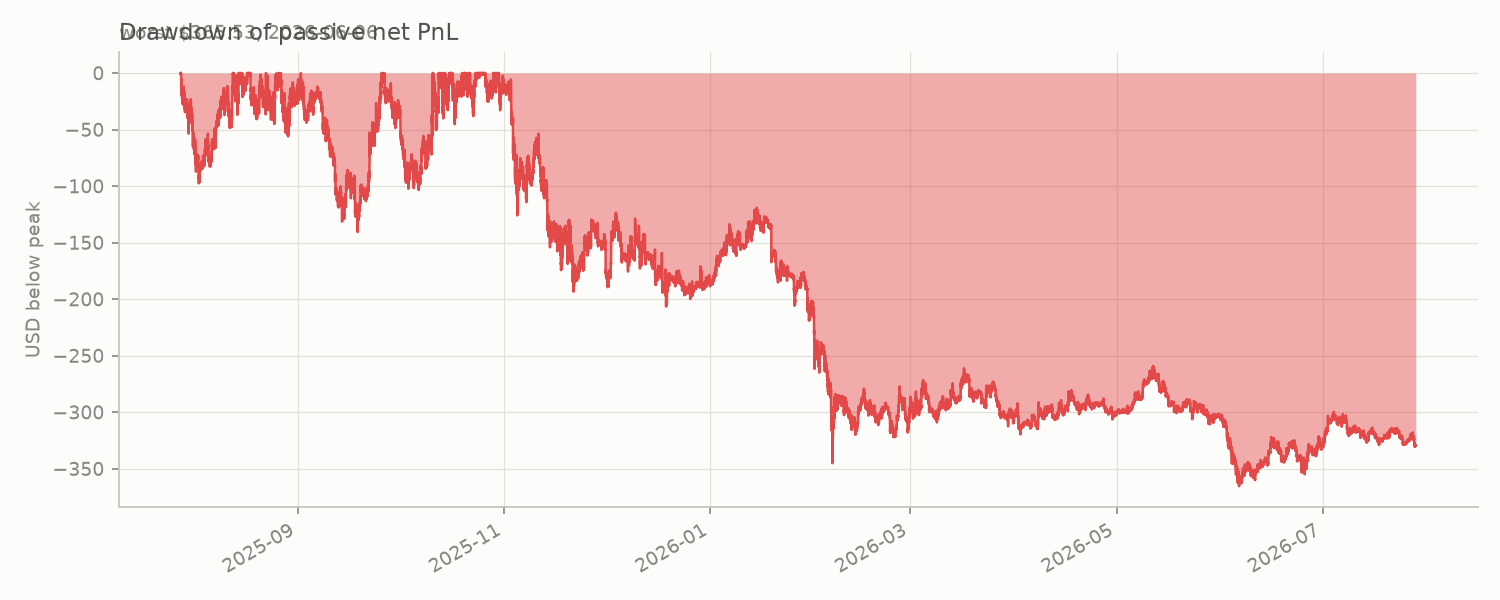
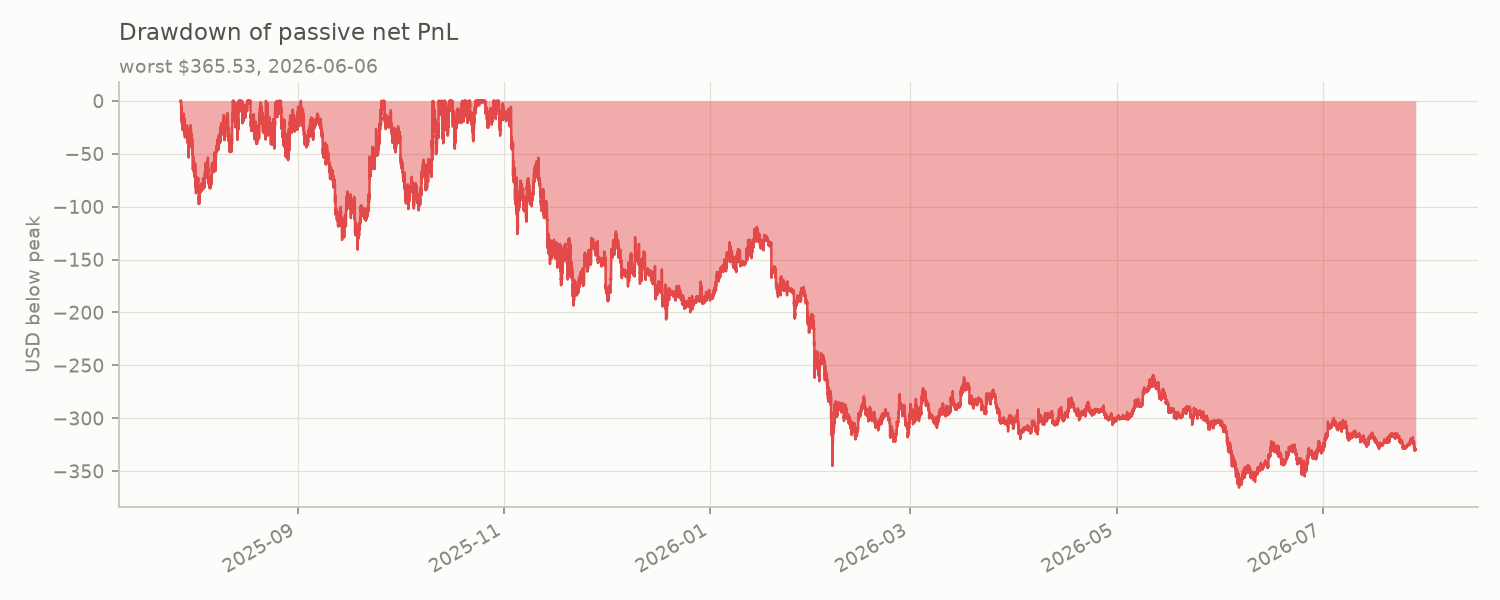
Report the year honestly: both strategies lost money
The README still quoted results from the placeholder BIN_TVL and embedded
charts nothing generates any more. At the pool's actual depth the headline
result changes sign, so the write-up is rebuilt around what the deposit
actually did rather than around the comparison against holding.

- Results rewritten at BIN_TVL = 13,500: passive $297.50 fees against
  $331.27 of IL, -$33.77 and a -3.4% net APY, so it loses to holding;
  rebalancing $831.95 fees, -$603.67 IL, $107.38 costs, +$120.90.
- A wealth table leads now. "Net PnL vs holding" is a comparison, not a
  return: rebalancing beat holding by $120.90 and still ended -16.5% on the
  money, and passive ended -32.1% against holding's -28.7%. Both lost.
- The break-even fee rate gets its own section: passive needed 0.0445% and
  the run assumed 0.0400%, which is the whole of its shortfall.
- Cost sensitivity now says the verdict fails at 0.5%, where the old
  numbers had it surviving.
- Embeds the current charts, and documents backtest/metrics/report/charts
  and the split between computing, formatting and drawing.
- Runtime measured rather than estimated: 54 s for a full run on the year,
  20 s of it the two runs and their metrics, 6 s the thirteen charts.
- BIN_TVL provenance written out in config.py and in the assumptions:
  $723k over the 50 bins of a +/-1% band is $14.46k each, and interpolating
  the density out to a 69-bin position gives $13.44k.
[…]

diff --git a/charts.py b/charts.py
@@ -43,6 +43,9 @@ COLOR = {
 
 LINE_W = 1.8
 
+# Points of space above the axes for a title that has a subtitle under it.
+TITLE_PAD = 20
+
 # A year of minute candles is 525,420 points drawn into about 1,500 pixels.
 # Rasterising all of them costs ~15 s per chart and shows nothing extra.
 CHART_MAX_POINTS = 12_000
@@ -84,16 +87,30 @@ def _axes(figsize=(10, 5)):
     return fig, ax
 
 
+def _esc(text):
+    """Escape the dollar signs in a label.
+
+    Matplotlib reads a $...$ pair as maths, so "$996.96 at the start,
+    $0.02 at the end" renders as "996.96atthestart, 0.02 at the end" in
+    italics. Everything drawn here quotes money, so everything is escaped.
+    """
+    return text.replace("$", r"\$")
+
+
 def _finish(fig, ax, title, ylabel, legend=True, subtitle=None):
-    ax.set_title(title, fontsize=11, color=INK["secondary"], loc="left")
+    # A subtitle sits in the gap between axes and title, so the title has
+    # to be padded out of the way or the two are drawn on top of each other.
+    ax.set_title(_esc(title), fontsize=11, color=INK["secondary"], loc="left",
+                 pad=TITLE_PAD if subtitle else 6)
     ax.set_ylabel(ylabel, color=INK["muted"], fontsize=9)
     if subtitle:
-        ax.text(0.0, 1.02, subtitle, transform=ax.transAxes, fontsize=9,
+        ax.text(0.0, 1.01, _esc(subtitle), transform=ax.transAxes, fontsize=9,
                 color=INK["muted"], ha="left", va="bottom")
     if legend:
         leg = ax.legend(loc="best", frameon=False, fontsize=9)
         for text in leg.get_texts():
             text.set_color(INK["secondary"])
+            text.set_text(_esc(text.get_text()))
     fig.autofmt_xdate()
     fig.tight_layout()
     return fig
@@ -259,10 +276,11 @@ def fee_per_bin(total_bin_fees, bin_step, top=None):
     ax.bar(prices, fees, width=width, color=COLOR["fees"], alpha=0.9, lw=0)
     ax.set_xlabel("bin price (USD)", color=INK["muted"], fontsize=9)
     ax.set_title("Fees earned by the pool at each price",
-                 fontsize=11, color=INK["secondary"], loc="left")
+                 fontsize=11, color=INK["secondary"], loc="left",
+                 pad=TITLE_PAD)
     ax.set_ylabel("fees (USD)", color=INK["muted"], fontsize=9)
-    ax.text(0.0, 1.02, f"{len(bins):,} bins touched, "
-                       f"${fees.sum():,.0f} total",
+    ax.text(0.0, 1.01, _esc(f"{len(bins):,} bins touched, "
+                            f"${fees.sum():,.0f} total"),
             transform=ax.transAxes, fontsize=9, color=INK["muted"],
             ha="left", va="bottom")
     fig.tight_layout()

diff --git a/config.py b/config.py
@@ -8,8 +8,9 @@ BIN_STEP = 4  # basis points; a common step for SOL pools (each bin 0.04% apart)
 POOL_SHARE = 0.08  # this pool captures 8% of total market volume
 FEE_RATE = 0.0004  # 0.04% trading fee
 # Fixed TVL per bin in USD, from the tracked pool rather than a guess: it held
-# about $723k inside a +/-1% band, which at bin step 4 is 50 bins, and the
-# liquidity thins going outward across a 69-bin position.
+# about $723k inside a +/-1% band, which at bin step 4 is 50 bins, so $14.46k
+# per bin there. A 69-bin position reaches past that band into thinner
+# liquidity, and interpolating the density out to 69 bins gives $13.44k.
 BIN_TVL = 13_500
 USER_DEPOSIT = 1_000  # total user deposit in USD 
 POSITION_BINS = 69  # width (in bins) of every position; Meteora's default range

diff --git a/README.md b/README.md
@@ -20,7 +20,8 @@ module loads is set by `DATA_FILE` in `config.py`.
 Both are committed, so a fresh clone (or a deployment) has data without a
 fetch step. Switch between them by editing `DATA_FILE`; the results below
 are from the year, and the 14-day set is small enough to iterate on
-quickly (a full run takes about a second on it, against 96 s on the year).
+quickly (a few seconds against 54 s on the year, of which the two runs
+and all their metrics are 20 s and the thirteen charts are 6 s).
 
 The year ships as Parquet rather than CSV because at this size the format
 carries its weight: 0.2 s to load versus ~15 s for the same rows as CSV, and
@@ -65,54 +66,81 @@ LPing earned *over just holding*.
 
 | strategy | fees | IL | costs | net PnL vs HODL | net APY | rebalances |
 |---|---|---|---|---|---|---|
-| passive (69 bins, $189.97–$195.29) | $401.63 | −$331.27 | — | **+$70.36** | 7.0% | 0 |
-| rebalancing (69 bins) | $1,123.13 | −$603.67 | $107.38 | **+$412.08** | 41.2% | 2,236 |
+| passive (69 bins, $189.97–$195.29) | $297.50 | −$331.27 | — | **−$33.77** | −3.4% | 0 |
+| rebalancing (69 bins) | $831.95 | −$603.67 | $107.38 | **+$120.90** | 12.1% | 2,236 |
 
-![Net PnL by strategy](outputs/strategies.png)
+![Net PnL by strategy](outputs/net_pnl_comparison.png)
 
 SOL fell 62.1% over this year ($192.73 → $73.14), which is the single
 fact driving every number below.
 
-**The passive position is barely a baseline.** Its range was fixed on the
-first candle at $189.97–$195.29. Price left it early and never came back,
-so it earned on **2.6% of candles** (13,451 of 525,420) and collected 3.4%
-of the pool's fees — essentially all of it in the first weeks. After that
-it is a 100%-SOL bag riding the price down. It is here to answer "did
-rebalancing help", and the answer is yes, decisively.
+### Both strategies lost money
+
+"Net PnL vs holding" is a comparison, not a return, and on a year this
+bad the two can point in opposite directions — a strategy can beat
+holding and still lose money. Here is what actually happened to the
+deposit:
+
+| | passive | rebalancing | just holding |
+|---|---|---|---|
+| deposit, marked at entry | $996.96 | $996.96 | $996.96 |
+| fees collected | $297.50 | $831.95 | — |
+| ending position value | $379.80 | $0.02 | $711.07 |
+| **total wealth at the end** | **$677.30** | **$831.97** | **$711.07** |
+| **absolute return** | **−32.1%** | **−16.5%** | **−28.7%** |
+| vs holding | −$33.77 | +$120.90 | — |
+
+Fees are withdrawn as earned rather than compounded back in, so ending
+wealth is fees plus whatever the position is still worth. Rebalancing
+beat holding by $120.90 and still lost $165 of the $997 put in. The
+passive position lost more than holding did.
+
+**The passive strategy lost to holding.** It collected $297.50 of fees
+against $331.27 of impermanent loss — the fees fell $33.77 short. Its
+gross fee APY of 29.8% looks healthy in isolation; the net APY is −3.4%,
+and the gap between those two numbers is exactly what IL ate.
+
+Its range was fixed on the first candle at $189.97–$195.29. Price left it
+early and never came back, so it earned on **2.6% of candles** (13,451 of
+525,420) and its range saw only 3.4% of the year's pool fees. It spent
+331 of 366 days entirely out of range: earning nothing, while still fully
+exposed to the price as a 100%-SOL bag riding it down. That is the worst
+of both legs, and it is the ordinary outcome for a set-and-forget range.
+
+![Price against the passive range](outputs/price_with_range_band_passive.png)
+
+**Rebalancing did better, and still lost money.** Following the price
+down over 2,236 rebalances kept it in range 100% of the time and earned
+$831.95 — 2.8× the passive position's fees on the same deposit. That was
+enough to beat holding and not enough to be profitable.
 
 ![Cumulative fees](outputs/cumulative_fees.png)
 
-**Rebalancing beat holding, in absolute terms.** Following the price down
-over 2,236 rebalances, it collected $1,123.13 of fees on a $996.96
-deposit. Fees are withdrawn as earned, not compounded back in, so the
-final wealth is fees plus whatever the position is still worth:
+### The break-even fee rate
 
-| | rebalancing | HODL |
-|---|---|---|
-| starting value | $996.96 | $996.96 |
-| fees collected | $1,123.13 | — |
-| ending position value | $0.02 | $711.07 |
-| **total** | **$1,123.15** (+12.7%) | **$711.07** (−28.7%) |
+The clearest single number the engine produces: the fee rate at which
+fees would have exactly covered IL and costs, given this price path.
 
-**Read the APY column carefully — it is measured against HODL, not
-against the deposit.** "+41.2%" means it beat holding by $412 over a year;
-the absolute return on the money was +12.7%. Those are very different
-claims, and only the second one is what a user gets.
+| | break-even rate | this run assumed | verdict |
+|---|---|---|---|
+| passive | **0.0445%** | 0.0400% | 10% below it — loses to holding |
+| rebalancing | **0.0342%** | 0.0400% | 17% above it — beats holding |
 
-This also explains the shape of the rebalancing line after early 2026: it
-keeps drifting up while the position earns nothing. With the position at
-roughly zero, net PnL is `fees − HODL`, so every further fall in SOL
-*raises* it. That late rise is the baseline sinking, not the strategy
-working.
+Both are computed against the same fee model, so the comparison is
+internal to it. It is verified by re-running: at the reported rate, net
+PnL comes out 0.0000 with IL and costs unchanged.
 
-**The position bleeds to nothing, and that caps the strategy.** Its value
-goes $996.96 → $0.02, and fee income decays with it — **94% of the
-$1,123.13 was earned in the first 90 days**:
+### The rebalancing position bleeds to nothing
+
+Its value goes $996.96 → $0.02, and fee income decays with it — **94% of
+the $831.95 was earned in the first 90 days**:
 
 | month end | 2025-07 | 2025-08 | 2025-09 | 2025-10 | 2025-11 | 2025-12 | 2026-01 | 2026-03 | 2026-07 |
 |---|---|---|---|---|---|---|---|---|---|
 | position value | $852.04 | $307.29 | $162.20 | $37.45 | $8.67 | $3.97 | $1.80 | $0.16 | $0.02 |
-| fees that month | $110.78 | $604.08 | $240.21 | $118.65 | $32.71 | $10.07 | $5.23 | $0.13 | $0.01 |
+| fees that month | $82.06 | $447.47 | $177.93 | $87.89 | $24.23 | $7.46 | $3.88 | $0.10 | $0.01 |
+
+![Rebalancing position value](outputs/position_value_rebalancing.png)
 
 This is not an accounting bug. On a closed price loop with `REBALANCE_COST`
 set to zero, the passive position returns to exactly its starting value
@@ -126,18 +154,29 @@ So the annualized figure is not repeatable: by month five the position is
 worth $8 and earns nothing. Realizing anything like it again means
 redepositing, which is a different (and untested) strategy.
 
-**Cost sensitivity.** The verdict survives the cost assumption, though
-the margin does not:
+It also explains the shape of the rebalancing line after early 2026: it
+keeps drifting up while the position earns nothing. With the position at
+roughly zero, net PnL is `fees − HODL`, so every further fall in SOL
+*raises* it. That late rise is the baseline sinking, not the strategy
+working.
+
+![What rebalancing earned and gave back](outputs/pnl_decomposition_rebalancing.png)
+
+**Cost sensitivity.** The verdict does not survive a higher trading cost:
 
 | `REBALANCE_COST` | 0% | 0.1% | 0.5% |
 |---|---|---|---|
-| net PnL vs HODL | +$556.43 | +$412.08 | +$53.67 |
+| net PnL vs HODL | +$227.83 | +$120.90 | **−$144.60** |
 
-![Fees, IL and net PnL](outputs/net_pnl.png)
+At 0.5% the 2,236 rebalances cost $375.03 and rebalancing loses to
+holding as well. The strategy's edge is a bet that recentring stays
+cheap.
 
 The engine thus measures the two legs any range-management or hedging
 approach is judged against: the fee income a position keeps, and the
-price-exposure cost (IL) that must be managed away.
+price-exposure cost (IL) that must be managed away. On this year, moving
+the range earned more fees than it cost — and neither strategy earned
+enough to make LPing through a 62% drawdown profitable.
 
 ## Repository layout
 
@@ -154,7 +193,11 @@ price-exposure cost (IL) that must be managed away.
 | `inventory.py` | Token inventory per bin (USDC below the price, SOL above), flips as price crosses bins, position value |
 | `pnl.py` | HODL baseline, impermanent loss, net PnL (fees + IL) |
 | `strategies.py` | Rebalancing strategy: close-outside-range trigger, recenter, cost on the value traded |
-| `run_backtest.py` | Runs both strategies end to end, prints the tables, writes charts to `outputs/` |
+| `backtest.py` | One run as data: `run()` returns `{params, series, events, metrics}` and prints nothing |
+| `metrics.py` | Every reported number, computed from a run's series (no formatting) |
+| `report.py` | Formats a run for a terminal, ending in a plain-language paragraph (no computing) |
+| `charts.py` | Every chart, each function taking a run and returning a figure (no file writing) |
+| `run_backtest.py` | Runs both strategies, prints the reports, writes the charts to `outputs/` |
 | `test_bin_math.py` | Tests for the bin math |
 | `data/sol_1m_1y.parquet` | The exact dataset the results above were produced from (committed for reproducibility) |
 
@@ -168,6 +211,12 @@ and `make_position` rejects anything wider than `MAX_BINS`. Every position
 in the engine — including the ones a rebalance opens — is built there, so
 there is no path around the ceiling.
 
+Computing, formatting and drawing are kept apart. `backtest.run()` returns
+a result dict and prints nothing; `params` and `metrics` inside it are flat
+and JSON-serialisable, and `series` and `events` are what the charts
+consume. Anything other than a terminal — a web front end, a results store,
+a parameter sweep — calls `run()` directly and skips `run_backtest.py`.
+
 ## How to run
 
 Requires Python 3.12+ with `pandas`, `matplotlib`, `requests`, and `pyarrow`
@@ -175,6 +224,8 @@ Requires Python 3.12+ with `pandas`, `matplotlib`, `requests`, and `pyarrow`
 
 ```
 python run_backtest.py     # the full backtest (uses config.DATA_FILE)
+python run_backtest.py passive   # just one strategy
+python report.py           # the same numbers, printed without writing charts
 python fetch_data.py       # optional: re-fetch a fresh 14-day window
 python verify_data.py      # data-quality check on a fetched file
 python test_bin_math.py    # bin math tests
@@ -208,6 +259,16 @@ python strategies.py       # rebalancing checks (equivalence, value neutrality, 
   exactly; with zero cost, value is continuous through every rebalance
   (the conversion is value-neutral by construction); a rise out of range
   buys SOL and a fall sells it, asserted on synthetic paths.
+- The recentring bleed is isolated rather than inferred: 30 closed price
+  cycles at zero cost drive 60 rebalances, every cycle costs an identical
+  −0.7059%, and the geometric prediction matches to 1e-6 — −0.3536% per
+  rebalance, with nothing else in the model able to account for it.
+- The break-even fee rate is checked by re-running at it, not by
+  re-deriving its own formula: net PnL comes out 0.0000 for both
+  strategies, with IL and costs unchanged.
+- Charts never change a number: drawing is decimated to ~12k points
+  keeping each series' envelope, while every metric is computed on the
+  full series.
 
 ## Model assumptions
 
@@ -216,8 +277,15 @@ python strategies.py       # rebalancing checks (equivalence, value neutrality, 
   price range by default, or equally (`FEE_DISTRIBUTION`). On this
   dataset the two modes differ by cents: only candles straddling a
   range edge are affected.
-- Every bin has fixed TVL (`BIN_TVL`); the user's share of a bin is
-  `deposit_per_bin / BIN_TVL`.
+- Every bin has fixed TVL (`BIN_TVL = 13,500`); the user's share of a bin
+  is `deposit_per_bin / BIN_TVL`. That figure comes from the tracked pool:
+  about $723k sat inside a ±1% band, which at bin step 4 is 50 bins, so
+  $14.46k per bin there; a 69-bin position reaches past that band into
+  thinner liquidity, and interpolating out to 69 bins gives $13.44k. Every
+  fee number scales inversely with it — the depth of the pool you join is
+  the single biggest lever on all of the results above. TVL is also held
+  constant: in reality it moves, and other LPs would crowd into a range
+  that is earning well.
 - Inventory is driven by candle **closes** only: bins at or below the
   active bin hold USDC, bins above hold SOL, and a bin that changes side
   converts its whole holding at its own price. Intra-candle paths are
